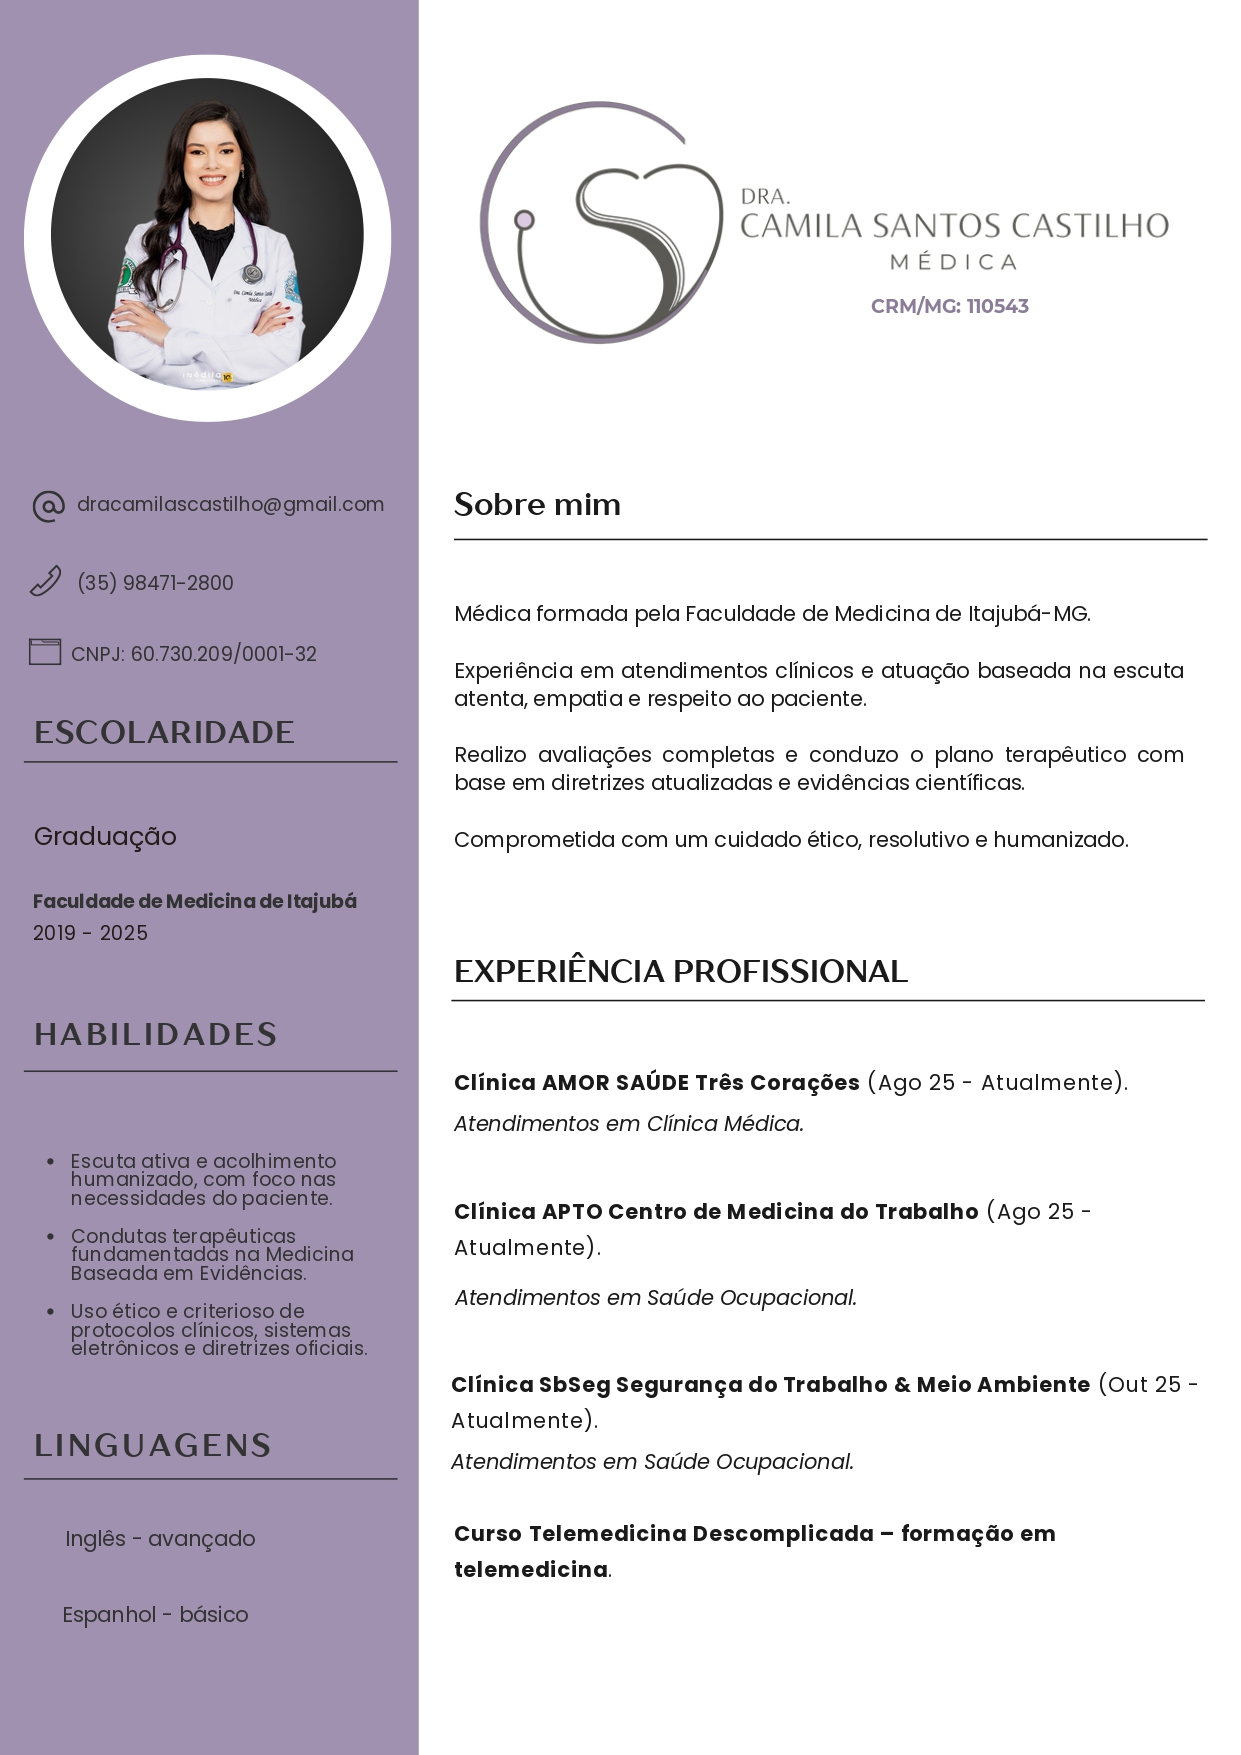
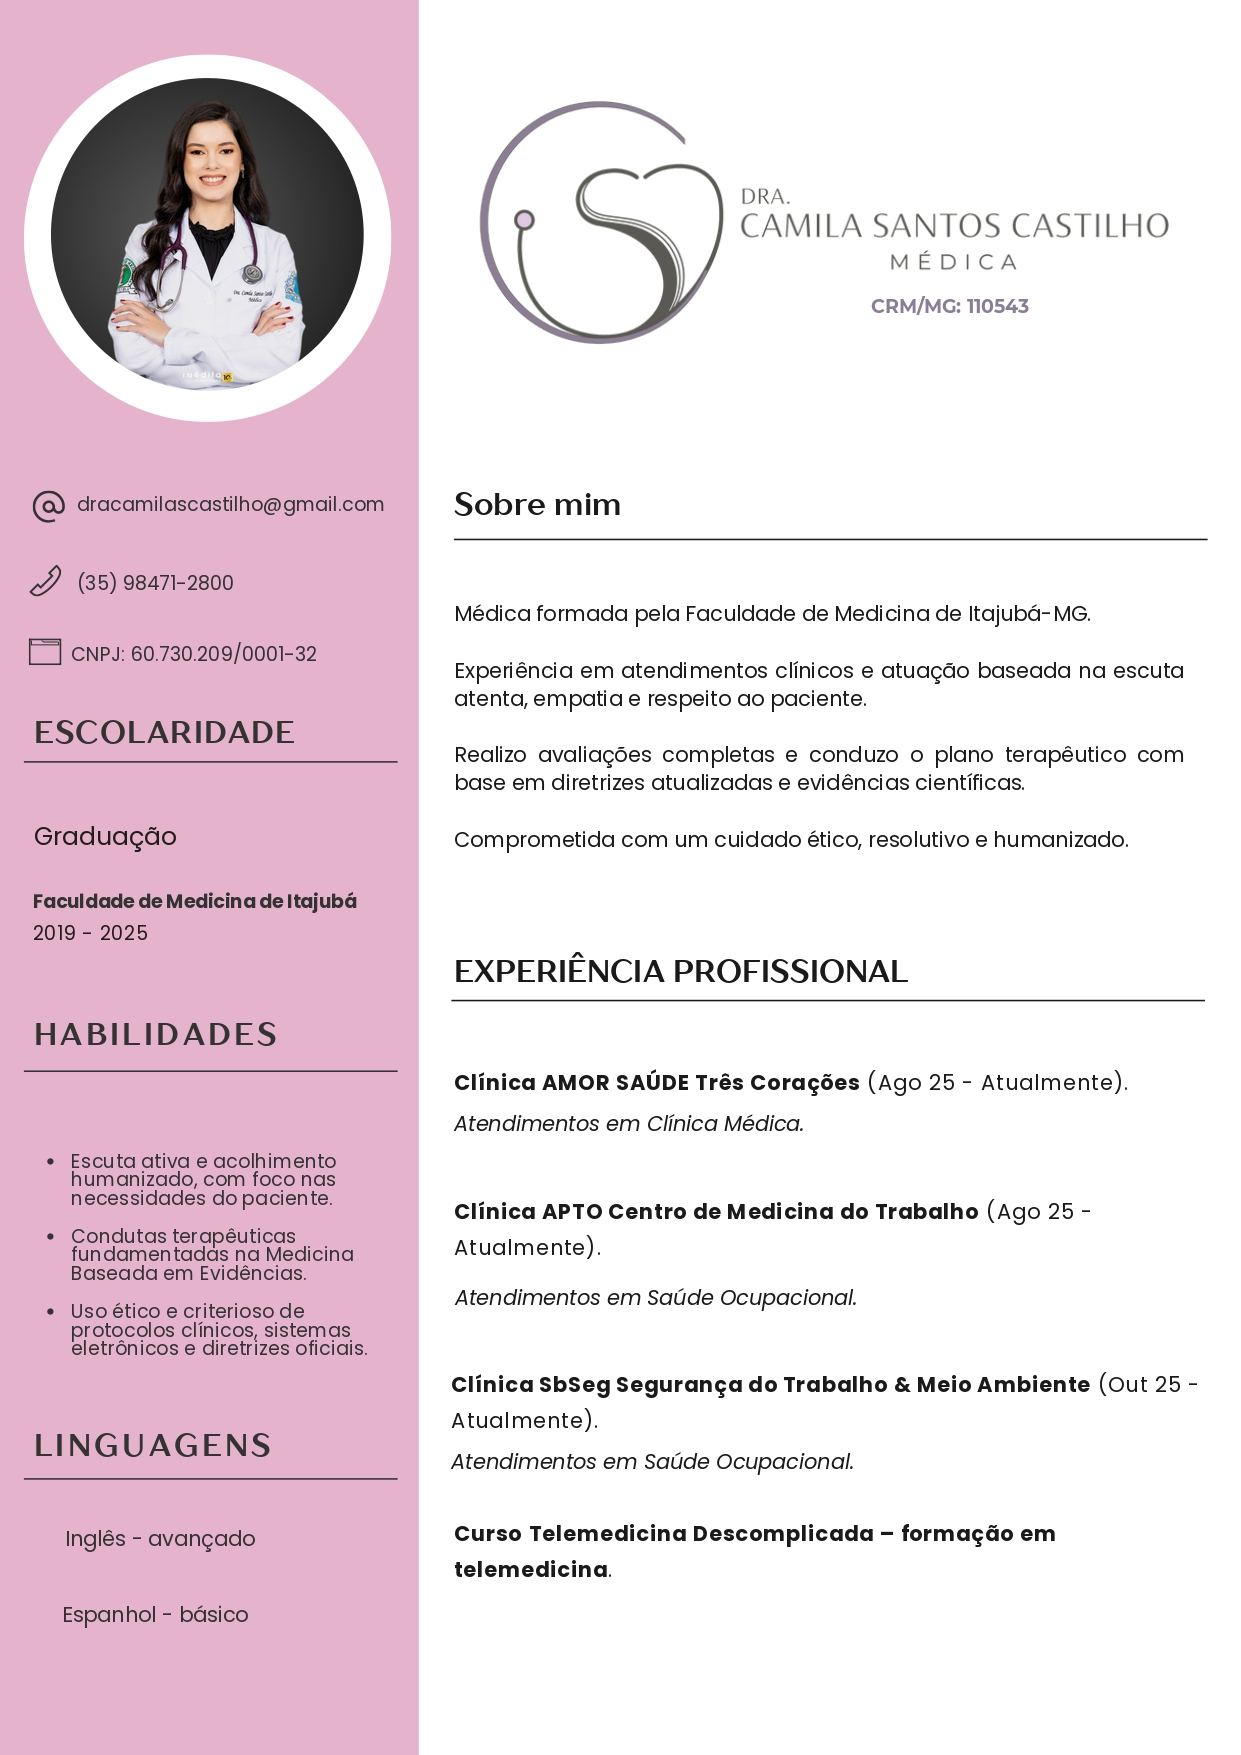
Fix number and styles

Changed region(s): [[0.0, 0.0, 0.3368, 1.0]]

diff --git a/components/sections/Footer.tsx b/components/sections/Footer.tsx
@@ -8,7 +8,7 @@ export default function Footer() {
   return (
     <footer id='footer' className='bg-background scroll-mt-16'>
       <div className='py-8 px-4 max-w-7xl mx-auto flex flex-col justify-center items-center'>
-        <div className='flex flex-col md:flex-row gap-8 justify-center items-start md:items-center'>
+        <div className='flex flex-col lg:flex-row gap-8 justify-center items-start lg:items-center'>
           <FooterItem
             Icon={FaInstagram}
             upperText='Me siga no instagram'
@@ -19,14 +19,14 @@ export default function Footer() {
           <FooterItem
             Icon={FaPhone}
             upperText='Agende sua consulta'
-            lowerText='035 99999-9999'
-            link='https://wa.me/035999999999'
+            lowerText='35 98820-0255'
+            link='https://wa.me/35988200255'
           />
           <FooterItem
             Icon={FaEnvelope}
             upperText='Fale comigo pelo email'
             lowerText={email}
-            link={`mailto:${email}?subject=Consulta&body=Olá Dra. Camila, gostaria de agendar uma consulta.`}
+            link={`mailto:${email}?subject=Consulta&body=Olá Dra. Camila, tenho uma duvida.`}
           />
         </div>
         <p className='w-full flex flex-col sm:flex-row justify-center items-center mt-8 text-sm'>

diff --git a/components/sections/About.tsx b/components/sections/About.tsx
@@ -48,8 +48,8 @@ export default function About() {
             <Image
               src='/images/Resume.jpg'
               alt='Resume'
-              width={500}
-              height={700}
+              width={1920}
+              height={1080}
               className={`w-full h-auto object-contain duration-300 ease-in-out ${!isResumeVisible && '-translate-y-full'}`}
             />
           </div>

diff --git a/app/globals.css b/app/globals.css
@@ -8,7 +8,7 @@
   --custom-pink: hsl(328, 59%, 45%);
   --custom-pink-light: hsl(328, 68%, 95%);
   --custom-pink-dark: hsl(328, 59%, 45%);
-  --custom-pink-medium: hsl(328, 58%, 56%);
+  --custom-pink-medium: hsl(328, 58%, 62%);
 }
 
 @theme inline {
